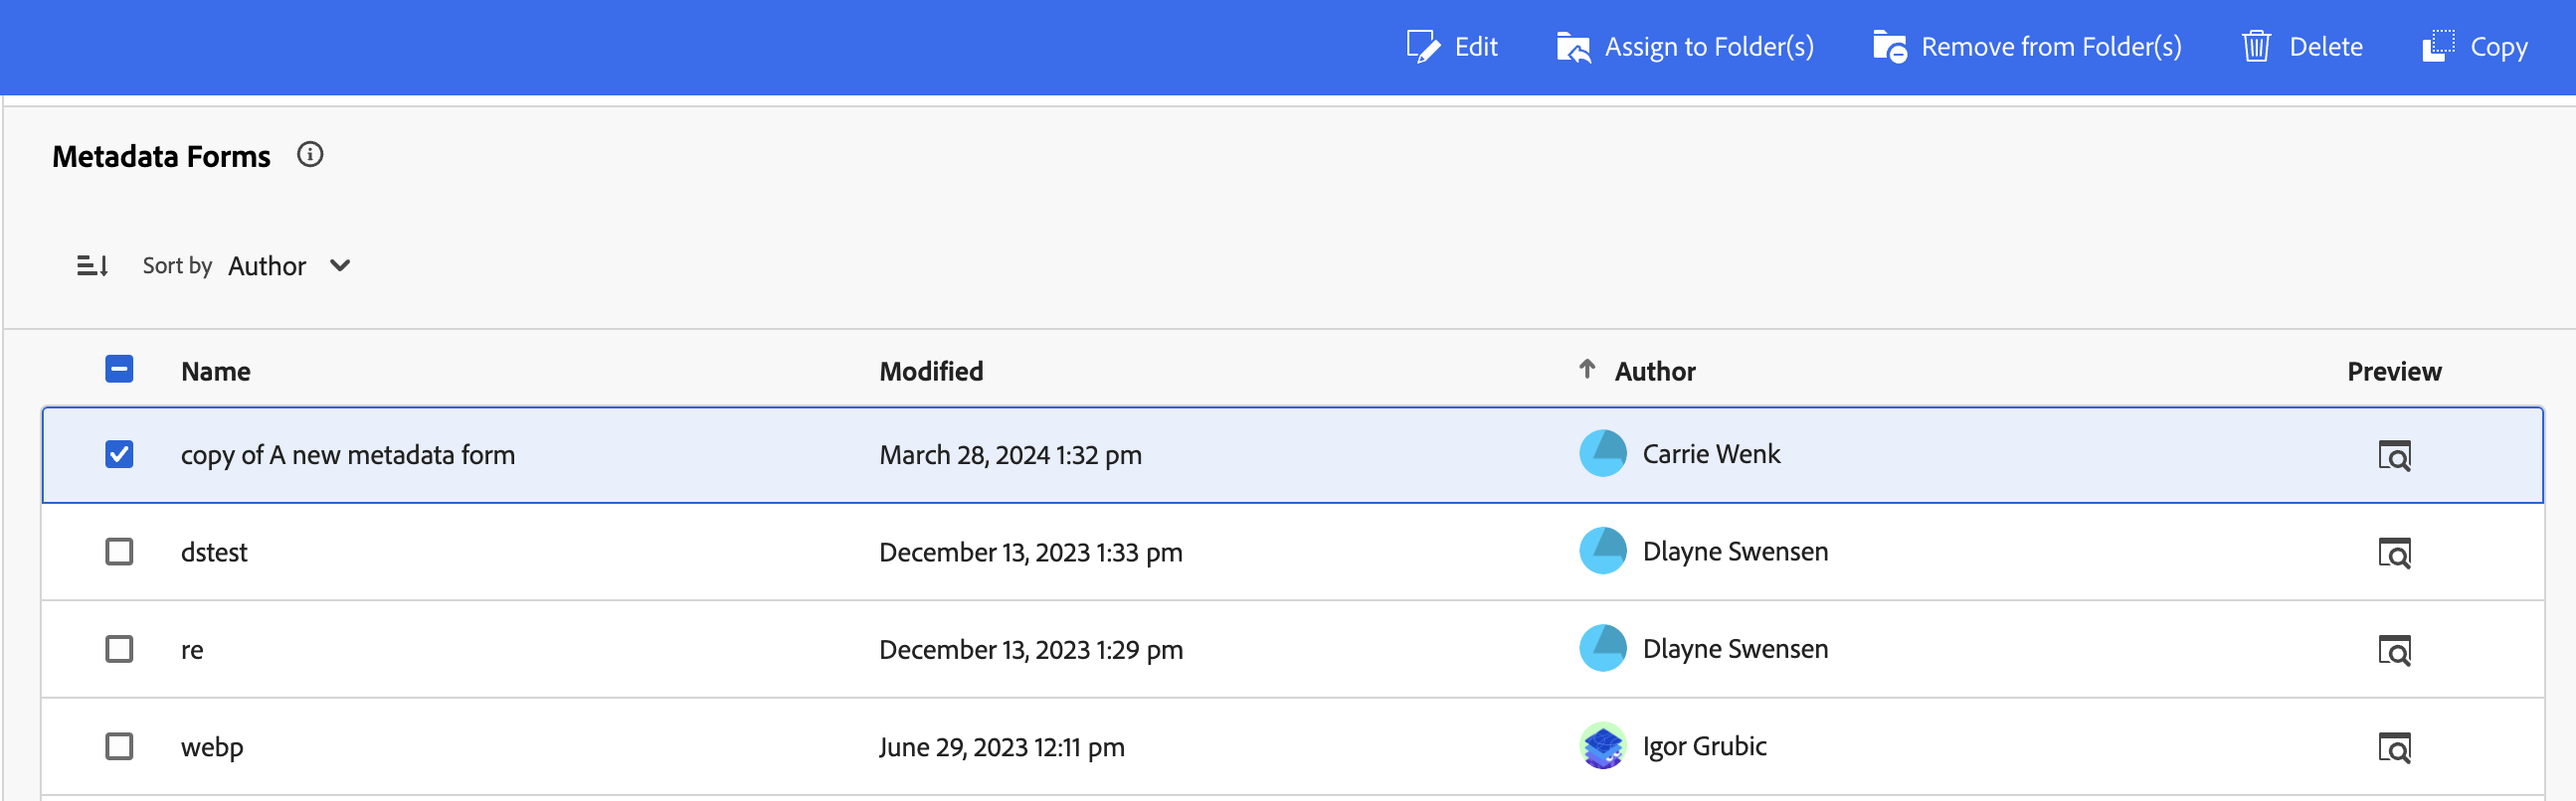
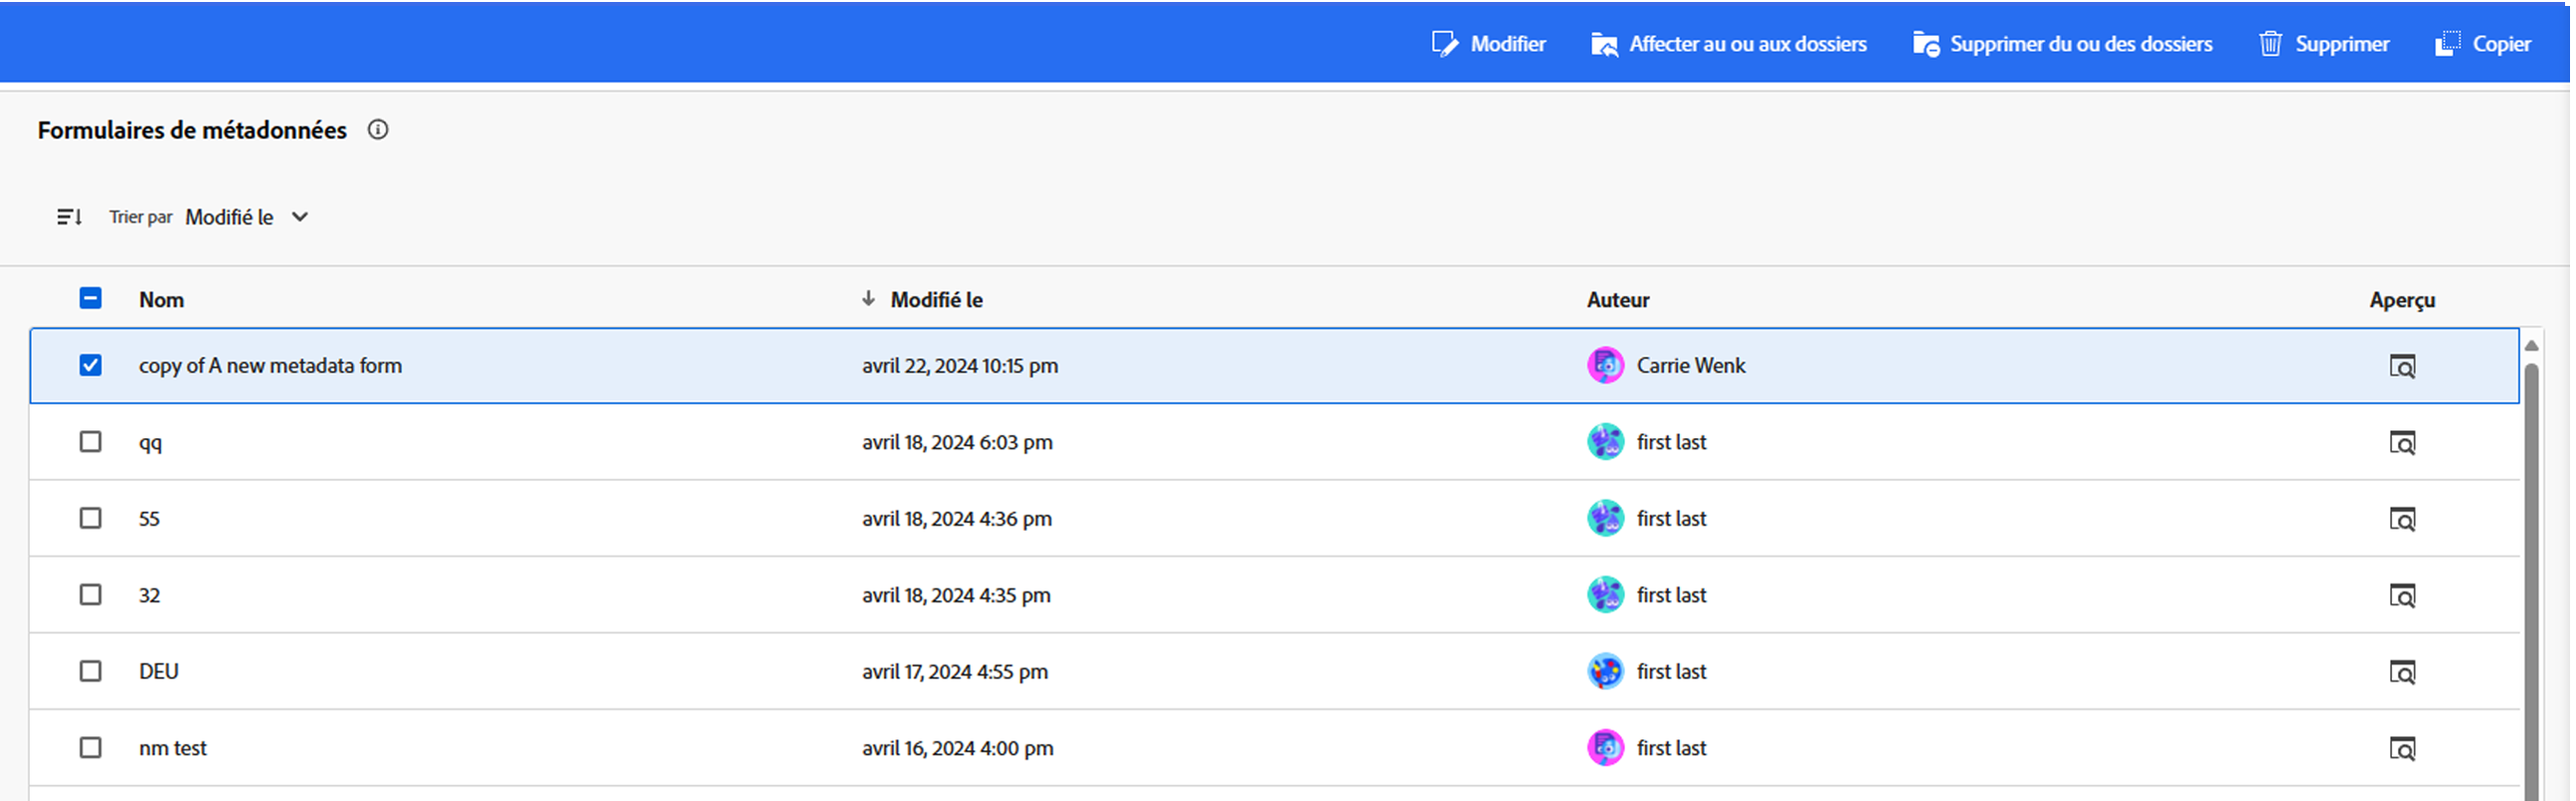
Updated by task 'AUTO_HANDOFF_1713514143129'  Changes for core/source commit https://git.corp.adobe.com/AdobeDocs/experience-manager-assets-essentials.en/commit/0038bd74fdc210ce61ab3e603d6e1c2678006d7f

Changed region(s): [[0.0, 0.3102, 0.9884, 1.0], [0.0, 0.0, 1.0, 0.2171], [0.0, 0.2481, 0.1236, 0.2792]]

diff --git a/help/using/metadata.md b/help/using/metadata.md
@@ -5,9 +5,9 @@ role: User,Leader,Admin,Architect,Developer
 contentOwner: AG
 exl-id: cfc105d1-41fc-4418-9905-b2a28a348682
 source-git-commit: 37beb971f1e675162eb4b8e9ab008b20a241c066
-workflow-type: tm+mt
+workflow-type: ht
 source-wordcount: '1773'
-ht-degree: 92%
+ht-degree: 100%
 
 ---
 
@@ -134,7 +134,7 @@ Vous trouverez ci-dessous un aperçu de chaque type de propriété et de leur mo
 | Mots-clés | Permettent d’ajouter des mots-clés de forme libre (mappés sur dc:subject). |
 | Balises intelligentes | Ajoutez ce composant pour augmenter les capacités de recherche en ajoutant automatiquement des balises de métadonnées. |
 
-### Affectation d’un formulaire de métadonnées à des dossiers {#assign-metadata-form-folder}
+### Attribuer un formulaire de métadonnées à des dossiers {#assign-metadata-form-folder}
 
 Vous pouvez également attribuer un formulaire de métadonnées à un dossier dans votre déploiement Assets Essentials. Le formulaire de métadonnées attribué à un dossier selon le type MIME est remplacé lorsque vous appliquez manuellement un formulaire de métadonnées à un dossier. Toutes les ressources du dossier, y compris les ressources des sous-dossiers, affichent ensuite les propriétés définies dans le formulaire de métadonnées.
 
@@ -142,29 +142,29 @@ Pour attribuer un formulaire de métadonnées à un dossier :
 
 1. Accédez à **[!UICONTROL Paramètres]** > **[!UICONTROL Formulaires de métadonnées]** et sélectionnez un formulaire de métadonnées.
 
-2. Cliquez sur **[!UICONTROL Attribuer au(x) dossier(s)]**.
+2. Cliquez sur **[!UICONTROL Attribuer au ou aux dossiers]**.
 
-3. Sélectionnez le ou les dossiers, puis cliquez sur **[!UICONTROL Attribuer]**. Vous pouvez sélectionner les dossiers en cliquant sur leur nom.
+3. Sélectionnez le dossier et cliquez sur **[!UICONTROL Attribuer]**. Vous pouvez sélectionner les dossiers en cliquant sur leur nom.
 
    ![attribuer un formulaire de métadonnées à un dossier](/help/using/assets/assign-to-folder.png)
 
    Vous pouvez également accéder à la page des détails du dossier et sélectionner un formulaire de métadonnées dans les propriétés du dossier disponibles dans le volet de droite pour attribuer le formulaire de métadonnées au dossier.
 
-   ![propriétés du dossier de formulaires de métadonnées](/help/using/assets/folder-properties-metadata-forms.png)
+   ![Propriétés du dossier de formulaires de métadonnées](/help/using/assets/folder-properties-metadata-forms.png)
 
-### Suppression d’un formulaire de métadonnées d’un dossier {#remove-metadata-form-folder}
+### Supprimer un formulaire de métadonnées des dossiers {#remove-metadata-form-folder}
 
-Après avoir affecté un formulaire de métadonnées à un ou plusieurs dossiers, Experience Manager Assets vous permet également de supprimer le formulaire de métadonnées des dossiers sélectionnés.
+Après avoir affecté un formulaire de métadonnées à un ou plusieurs dossiers, Experience Manager Assets vous permet également de le supprimer des dossiers sélectionnés.
 
-Pour supprimer un formulaire de métadonnées d’un dossier :
+Pour supprimer un formulaire de métadonnées d’un dossier :
 
 1. Accédez à **[!UICONTROL Paramètres]** > **[!UICONTROL Formulaires de métadonnées]** et sélectionnez un formulaire de métadonnées.
 
-1. Cliquez sur **[!UICONTROL Supprimer du ou des dossiers]**. La liste des dossiers affectés au formulaire de métadonnées s’affiche.
+1. Cliquez sur **[!UICONTROL Supprimer du ou des dossiers]**. La liste des dossiers attribués au formulaire de métadonnées s’affiche.
 
 1. Sélectionnez le dossier et cliquez sur **[!UICONTROL Supprimer]**. Vous pouvez également sélectionner plusieurs dossiers dans la liste.
 
-Vous pouvez également accéder à la page des détails du dossier et sélectionner **[!UICONTROL Formulaire de métadonnées mappées sur le système]** de la **[!UICONTROL Forms des métadonnées]** pour supprimer le formulaire de métadonnées affecté d’un dossier.
+Vous pouvez également accéder à la page des détails du dossier et sélectionner **[!UICONTROL Formulaire de métadonnées mappées sur le système]** dans le champ **[!UICONTROL Formulaires de métadonnées]** pour supprimer le formulaire de métadonnées affecté d’un dossier.
 
 ## Étapes suivantes {#next-steps}
 

diff --git a/help/using/TOC.md b/help/using/TOC.md
@@ -10,9 +10,9 @@ feature: Assets Essentials
 role: User,Leader
 solution: Experience Manager
 source-git-commit: 9c37194a04057600fe602b4de373c21e69389a16
-workflow-type: tm+mt
+workflow-type: ht
 source-wordcount: '138'
-ht-degree: 98%
+ht-degree: 100%
 
 ---
 
@@ -25,7 +25,7 @@ ht-degree: 98%
 + [Mon espace de travail](my-workspace.md)
 + Prise en main d’Assets Essentials pour l’administration {#get-started-admins}
    + [Administrer et ajouter des utilisateurs](deploy-administer.md)
-   + Gérer l’accès aux dossiers {#folder-access}
+   + Gérer l’accès aux dossiers{#folder-access}
       + [Gérer les autorisations des dossiers](manage-permissions.md)
       + [Bonnes pratiques relatives à la gestion des autorisations](permission-management-best-practices.md)
    + [Parcours administrateur pour Assets Essentials pour Creative Cloud Pro avec les solutions de gestion de travail](assets-essentials-cc-pro-work-management-admin-journey.md)
@@ -37,8 +37,8 @@ ht-degree: 98%
 + [Recherche et découverte de ressources](search.md)
 + [Tâches de gestion des ressources](manage-organize.md)
 + [Modification des images](edit-images.md)
-+ [Modification de vidéos](edit-videos.md)
-+ [Gestion des métadonnées des ressource](metadata.md)
++ [Modifier des vidéos](edit-videos.md)
++ [Gérer les métadonnées des ressource](metadata.md)
 + [Partager des ressources](share-links-for-assets.md)
 + [Gestion des collections](manage-collections.md)
 + [Surveiller des ressources, des dossiers et des collections](manage-notifications.md)

diff --git a/help/using/manage-permissions.md b/help/using/manage-permissions.md
@@ -3,7 +3,7 @@ title: Comment gérer les autorisations des dossiers dans AEM Assets Essential
 description: Grâce à Assets Essentials, les administrateurs peuvent gérer les niveaux d’accès aux dossiers disponibles dans le référentiel. Pour gérer les niveaux d’accès, créez des groupes d’utilisateurs et attribuez-leur des autorisations. En tant qu’administrateur, vous pouvez également déléguer les droits de gestion des autorisations à des groupes d’utilisateurs au niveau du dossier.
 exl-id: 5ef01dbc-87c0-4013-9367-5da3774f4f20
 source-git-commit: ec723ae4222254c64e8ddc2e03f8a523203f9f8a
-workflow-type: tm+mt
+workflow-type: ht
 source-wordcount: '1657'
 ht-degree: 100%
 
